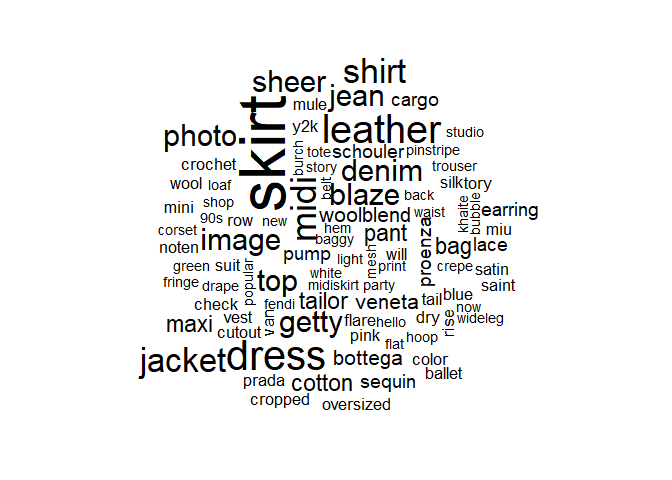
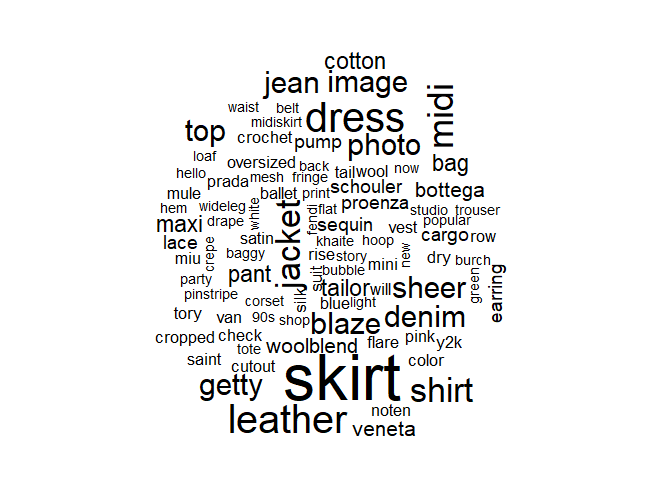
edit

Changed region(s): [[0.1875, 0.0938, 0.8125, 0.9062]]

diff --git a/Top_Fashion_Trends_2023.md b/Top_Fashion_Trends_2023.md
@@ -299,6 +299,13 @@ article:
 
 ![](Top_Fashion_Trends_2023_files/figure-markdown_strict/unnamed-chunk-16-1.png)
 
+    library(RColorBrewer)
+
+    # Create the word cloud with a sophisticated color palette
+    wordcloud(names(term_frequency), term_frequency, colors = brewer.pal(8, "Dark2"))
+
+![](Top_Fashion_Trends_2023_files/figure-markdown_strict/unnamed-chunk-16-2.png)
+
 From conducting the term frequency, we see that skirts, dresses,
 leather, denim, and sheer are the most used terms. This indicates that
 all 10 fashion articles believe these clothing articles/ styles will be
